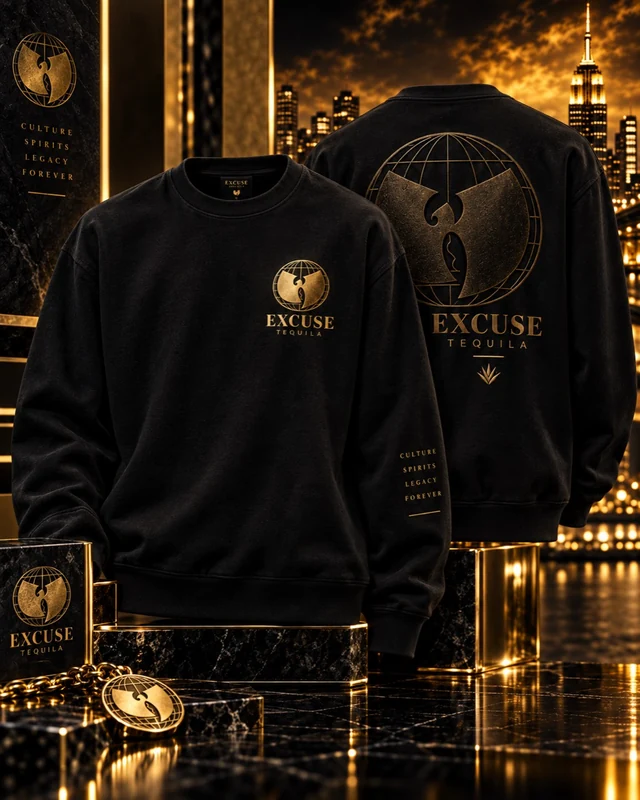
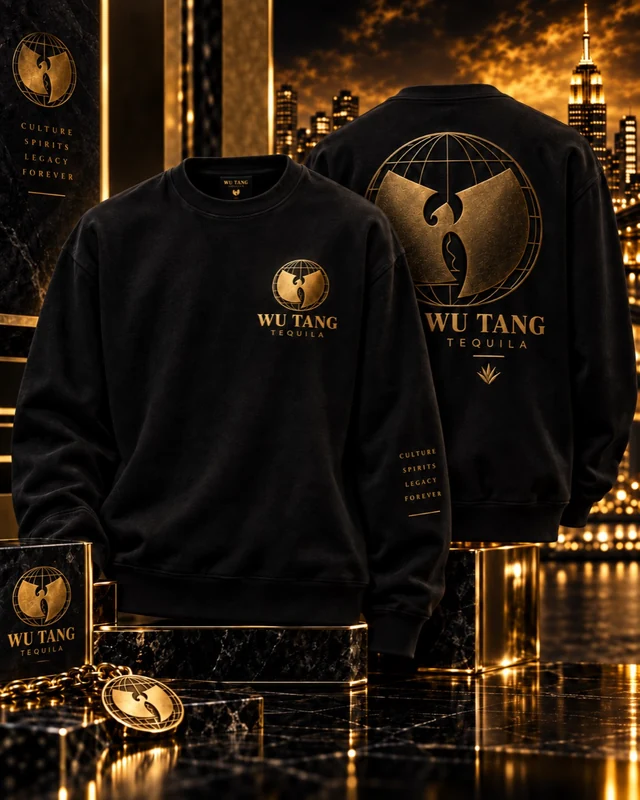
Correct Collector Goods to WU-TANG TEQUILA branding

diff --git a/collector-goods.html b/collector-goods.html
@@ -1,9 +1,9 @@
 <!doctype html>
-<html lang="en"><head><meta charset="UTF-8"><meta name="viewport" content="width=device-width, initial-scale=1"><meta name="theme-color" content="#080808"><title>Collector Goods | EXCUSE Tequila x Wu-Tang</title><meta name="description" content="Explore the upcoming EXCUSE Tequila x Wu-Tang collector goods collection: apparel, accessories and barware. Register for release updates."><meta property="og:title" content="Collector Goods | EXCUSE Tequila x Wu-Tang"><meta property="og:description" content="Culture. Spirits. Legacy. Discover collector goods coming soon."><meta property="og:type" content="website"><meta property="og:image" content="https://ernestyearby-svg.github.io/wutang-excuse/goods-campaign.webp"><link rel="stylesheet" href="styles.css?v=11"><script type="module" src="app.js?v=9"></script><link rel="stylesheet" href="collector-goods.css?v=1"><script type="module" src="collector-goods.js?v=1"></script></head>
+<html lang="en"><head><meta charset="UTF-8"><meta name="viewport" content="width=device-width, initial-scale=1"><meta name="theme-color" content="#080808"><title>Collector Goods | WU-TANG TEQUILA</title><meta name="description" content="Explore the upcoming WU-TANG TEQUILA collector goods collection: apparel, accessories and barware. Register for release updates."><meta property="og:title" content="Collector Goods | WU-TANG TEQUILA"><meta property="og:description" content="Culture. Spirits. Legacy. Discover collector goods coming soon."><meta property="og:type" content="website"><meta property="og:image" content="https://ernestyearby-svg.github.io/wutang-excuse/goods-campaign.webp?v=2"><link rel="stylesheet" href="styles.css?v=11"><script type="module" src="app.js?v=9"></script><link rel="stylesheet" href="collector-goods.css?v=2"><script type="module" src="collector-goods.js?v=1"></script></head>
 <body>
-<dialog id="age-gate" aria-labelledby="age-title"><div class="gate-inner"><span class="wordmark">EXCUSE<small>TEQUILA</small></span><p class="eyebrow">CULTURE. CRAFT. LEGACY.</p><h2 id="age-title">WELCOME<br>TO EXCUSE</h2><p>Please confirm that you are 21 years of age or older.</p><div class="gate-actions"><button class="button gold" id="enter">I AM 21+</button><button class="button" id="exit">EXIT</button></div><p class="fine">PLEASE DRINK RESPONSIBLY. 21+</p></div></dialog>
-<div id="site"><a class="skip" href="#main">Skip to content</a><header id="header"><a class="wordmark" href="index.html#home" aria-label="EXCUSE Tequila home">EXCUSE<small>TEQUILA</small></a><nav aria-label="Main navigation"><a href="index.html#editions">THE EDITIONS</a><button data-reserve>PRE-ORDER</button><a href="collector-goods.html" aria-current="page">COLLECTOR GOODS</a><a href="#signup">JOIN THE LIST</a></nav><button id="menu-toggle" aria-label="Open menu" aria-expanded="false" aria-controls="mobile-menu"><span></span><span></span></button></header>
-<main id="main" class="goods-page"><section class="goods-hero"><div class="goods-hero-top"><div><p class="eyebrow">EXCUSE TEQUILA x WU-TANG</p><h1>COLLECTOR<br><em>GOODS.</em></h1></div><div class="goods-hero-intro"><p class="goods-manifesto">CULTURE. <br>SPIRITS. <br>LEGACY.</p><p>A limited collection inspired by the EXCUSE Tequila x Wu-Tang collaboration.</p><p class="eyebrow">COMING SOON</p><div class="goods-actions"><button class="button gold" data-interest="all">JOIN THE MERCH LIST</button><a class="button" href="#collection">EXPLORE THE COLLECTION ↓</a></div></div></div><div class="goods-campaign"><img src="goods-campaign.webp" srcset="goods-campaign-640.webp 640w, goods-campaign.webp 1280w" sizes="100vw" width="1280" height="720" fetchpriority="high" alt="EXCUSE Tequila x Wu-Tang collector goods campaign with apparel, accessories and barware"></div><div class="goods-caption"><span>APPAREL / ACCESSORIES / BARWARE</span><span>EXCUSE x WU-TANG</span></div></section><section class="goods-intro section" id="collection"><p class="eyebrow">THE COLLECTION</p><h2>BUILT BEYOND<br><em>THE BOTTLE.</em></h2><p>A curated collection of apparel, accessories and barware extending the EXCUSE Tequila x Wu-Tang world beyond the spirit itself.</p></section><section class="goods-grid" aria-label="Apparel collection"><article class="goods-card"><img src="goods-tee.webp" srcset="goods-tee-640.webp 640w, goods-tee.webp 1066w" sizes="(max-width:700px) 100vw, (max-width:1000px) 46vw, 30vw" width="1066" height="1280" loading="lazy" alt="HEAVYWEIGHT TEE — approved black and gold EXCUSE Tequila x Wu-Tang presentation"><div class="goods-card-copy"><p class="eyebrow">01 / APPAREL</p><h3>HEAVYWEIGHT TEE</h3><div class="goods-card-bottom"><span>COMING SOON</span><button data-interest="tee" aria-label="Notify me about HEAVYWEIGHT TEE">NOTIFY ME <span aria-hidden="true">↗</span></button></div></div></article><article class="goods-card"><img src="goods-hoodie.webp" srcset="goods-hoodie-640.webp 640w, goods-hoodie.webp 1024w" sizes="(max-width:700px) 100vw, (max-width:1000px) 46vw, 30vw" width="1024" height="1280" loading="lazy" alt="COLLECTOR HOODIE — approved black and gold EXCUSE Tequila x Wu-Tang presentation"><div class="goods-card-copy"><p class="eyebrow">02 / APPAREL</p><h3>COLLECTOR HOODIE</h3><div class="goods-card-bottom"><span>COMING SOON</span><button data-interest="hoodie" aria-label="Notify me about COLLECTOR HOODIE">NOTIFY ME <span aria-hidden="true">↗</span></button></div></div></article><article class="goods-card"><img src="goods-jacket.webp" srcset="goods-jacket-640.webp 640w, goods-jacket.webp 1024w" sizes="(max-width:700px) 100vw, (max-width:1000px) 46vw, 30vw" width="1024" height="1280" loading="lazy" alt="VARSITY JACKET — approved black and gold EXCUSE Tequila x Wu-Tang presentation"><div class="goods-card-copy"><p class="eyebrow">03 / COLLECTOR APPAREL</p><h3>VARSITY JACKET</h3><div class="goods-card-bottom"><span>COMING SOON</span><button data-interest="jacket" aria-label="Notify me about VARSITY JACKET">NOTIFY ME <span aria-hidden="true">↗</span></button></div></div></article></section><section class="goods-feature "><div class="goods-feature-image"><img src="goods-jacket.webp" srcset="goods-jacket-640.webp 640w, goods-jacket.webp 1024w" sizes="(max-width:700px) 100vw, (max-width:1000px) 46vw, 30vw" width="1024" height="1280" loading="lazy" alt="VARSITY JACKET — approved black and gold EXCUSE Tequila x Wu-Tang presentation"></div><div class="goods-feature-copy"><p class="eyebrow">IN FOCUS / VARSITY JACKET</p><h2>THE STATEMENT<br><em>PIECE.</em></h2><p>The varsity jacket. A collector expression in black and gold.</p><p class="eyebrow">COMING SOON</p><button class="button" data-interest="jacket">REGISTER INTEREST ↗</button></div></section><section class="goods-grid" aria-label="Apparel and headwear"><article class="goods-card"><img src="goods-crewneck.webp" srcset="goods-crewneck-640.webp 640w, goods-crewneck.webp 1024w" sizes="(max-width:700px) 100vw, (max-width:1000px) 46vw, 30vw" width="1024" height="1280" loading="lazy" alt="PREMIUM CREWNECK — approved black and gold EXCUSE Tequila x Wu-Tang presentation"><div class="goods-card-copy"><p class="eyebrow">04 / APPAREL</p><h3>PREMIUM CREWNECK</h3><div class="goods-card-bottom"><span>COMING SOON</span><button data-interest="crewneck" aria-label="Notify me about PREMIUM CREWNECK">NOTIFY ME <span aria-hidden="true">↗</span></button></div></div></article><article class="goods-card"><img src="goods-cap.webp" srcset="goods-cap-640.webp 640w, goods-cap.webp 1024w" sizes="(max-width:700px) 100vw, (max-width:1000px) 46vw, 30vw" width="1024" height="1280" loading="lazy" alt="STRUCTURED CAP — approved black and gold EXCUSE Tequila x Wu-Tang presentation"><div class="goods-card-copy"><p class="eyebrow">05 / HEADWEAR</p><h3>STRUCTURED CAP</h3><div class="goods-card-bottom"><span>COMING SOON</span><button data-interest="cap" aria-label="Notify me about STRUCTURED CAP">NOTIFY ME <span aria-hidden="true">↗</span></button></div></div></article><article class="goods-card"><img src="goods-beanie.webp" srcset="goods-beanie-640.webp 640w, goods-beanie.webp 1024w" sizes="(max-width:700px) 100vw, (max-width:1000px) 46vw, 30vw" width="1024" height="1280" loading="lazy" alt="COLLECTOR BEANIE — approved black and gold EXCUSE Tequila x Wu-Tang presentation"><div class="goods-card-copy"><p class="eyebrow">06 / HEADWEAR</p><h3>COLLECTOR BEANIE</h3><div class="goods-card-bottom"><span>COMING SOON</span><button data-interest="beanie" aria-label="Notify me about COLLECTOR BEANIE">NOTIFY ME <span aria-hidden="true">↗</span></button></div></div></article></section><section class="goods-feature reverse"><div class="goods-feature-image"><img src="goods-box.webp" srcset="goods-box-640.webp 640w, goods-box.webp 1024w" sizes="(max-width:700px) 100vw, (max-width:1000px) 46vw, 30vw" width="1024" height="1280" loading="lazy" alt="COLLECTOR BOX — approved black and gold EXCUSE Tequila x Wu-Tang presentation"></div><div class="goods-feature-copy"><p class="eyebrow">IN FOCUS / COLLECTOR BOX</p><h2>BUILT TO BE<br><em>COLLECTED.</em></h2><p>The collector box. A presentation made for the next chapter.</p><p class="eyebrow">COMING SOON</p><button class="button" data-interest="box">REGISTER INTEREST ↗</button></div></section><section class="goods-grid" aria-label="Accessories and lifestyle"><article class="goods-card"><img src="goods-duffel.webp" srcset="goods-duffel-640.webp 640w, goods-duffel.webp 1024w" sizes="(max-width:700px) 100vw, (max-width:1000px) 46vw, 30vw" width="1024" height="1280" loading="lazy" alt="COLLECTOR DUFFEL — approved black and gold EXCUSE Tequila x Wu-Tang presentation"><div class="goods-card-copy"><p class="eyebrow">07 / ACCESSORIES</p><h3>COLLECTOR DUFFEL</h3><div class="goods-card-bottom"><span>COMING SOON</span><button data-interest="duffel" aria-label="Notify me about COLLECTOR DUFFEL">NOTIFY ME <span aria-hidden="true">↗</span></button></div></div></article><article class="goods-card"><img src="goods-barware.webp" srcset="goods-barware-640.webp 640w, goods-barware.webp 1024w" sizes="(max-width:700px) 100vw, (max-width:1000px) 46vw, 30vw" width="1024" height="1280" loading="lazy" alt="BARWARE COLLECTION — approved black and gold EXCUSE Tequila x Wu-Tang presentation"><div class="goods-card-copy"><p class="eyebrow">08 / BAR & LIFESTYLE</p><h3>BARWARE COLLECTION</h3><div class="goods-card-bottom"><span>COMING SOON</span><button data-interest="barware" aria-label="Notify me about BARWARE COLLECTION">NOTIFY ME <span aria-hidden="true">↗</span></button></div></div></article><article class="goods-card"><img src="goods-box.webp" srcset="goods-box-640.webp 640w, goods-box.webp 1024w" sizes="(max-width:700px) 100vw, (max-width:1000px) 46vw, 30vw" width="1024" height="1280" loading="lazy" alt="COLLECTOR BOX — approved black and gold EXCUSE Tequila x Wu-Tang presentation"><div class="goods-card-copy"><p class="eyebrow">09 / LIMITED COLLECTION</p><h3>COLLECTOR BOX</h3><div class="goods-card-bottom"><span>COMING SOON</span><button data-interest="box" aria-label="Notify me about COLLECTOR BOX">NOTIFY ME <span aria-hidden="true">↗</span></button></div></div></article></section><section class="goods-feature "><div class="goods-feature-image"><img src="goods-barware.webp" srcset="goods-barware-640.webp 640w, goods-barware.webp 1024w" sizes="(max-width:700px) 100vw, (max-width:1000px) 46vw, 30vw" width="1024" height="1280" loading="lazy" alt="BARWARE COLLECTION — approved black and gold EXCUSE Tequila x Wu-Tang presentation"></div><div class="goods-feature-copy"><p class="eyebrow">IN FOCUS / BARWARE COLLECTION</p><h2>THE EXPERIENCE<br>CONTINUES<br><em>AFTER THE POUR.</em></h2><p>The barware collection. Culture in every detail.</p><p class="eyebrow">COMING SOON</p><button class="button" data-interest="barware">REGISTER INTEREST ↗</button></div></section><section class="goods-signup section" id="signup"><p class="eyebrow">RELEASE INFORMATION / EARLY ACCESS</p><h2>YOUR NEXT<br><em>COLLECTOR MOMENT.</em></h2><p>Register for release information and availability updates.</p><button class="button gold" data-interest="all">JOIN THE MERCH LIST ↗</button></section><form id="signup-form" hidden><input name="email" type="email"></form><div id="signup-success" hidden></div></main><footer id="contact"><div class="footer-top"><a class="wordmark" href="index.html#home">EXCUSE<small>TEQUILA</small></a><nav aria-label="Footer navigation"><a href="index.html#contact">CONTACT</a><a href="index.html#editions">THE EDITIONS</a><button data-reserve>PRE-ORDER</button><a href="collector-goods.html" aria-current="page">COLLECTOR GOODS</a><a href="#signup">JOIN THE LIST</a></nav></div><div class="footer-bottom"><span>PLEASE DRINK RESPONSIBLY. 21+</span><span>Designed &amp; Developed by Dynasty Works Studio</span></div></footer></div>
-<dialog id="mobile-menu" aria-label="Navigation"><button class="close" id="menu-close" aria-label="Close menu">CLOSE ×</button><p class="eyebrow">EXCUSE TEQUILA x WU-TANG</p><nav><a href="index.html#editions">The editions</a><button data-reserve>Pre-order</button><a href="collector-goods.html" aria-current="page">Collector goods</a><a href="#signup">Join the list</a></nav><p class="fine">REPOSADO. ROOTED IN CULTURE.</p></dialog>
-<dialog id="reservation" aria-labelledby="reserve-title"><button class="close" id="reserve-close" aria-label="Close reservation">CLOSE ×</button><div class="reserve-intro"><p class="eyebrow">YOUR NEXT CHAPTER</p><h2 id="reserve-title">RESERVE<br><em>YOUR EDITION.</em></h2><p>Register your preorder interest.</p><p class="fine">Preview reservation only. No payment, purchase or allocation. Details are not transmitted or saved.</p></div><form id="reserve-form"><div class="fields"><label>First Name<input name="firstName" autocomplete="given-name" required maxlength="80"></label><label>Last Name<input name="lastName" autocomplete="family-name" required maxlength="80"></label><label>Email<input name="email" type="email" autocomplete="email" required maxlength="254"></label><label>Mobile Number<input name="phone" type="tel" autocomplete="tel" required pattern="[+0-9\(\) .\-]{7,25}" maxlength="25" title="Enter a phone number with 7–25 characters."></label><label>State<select name="state" autocomplete="address-level1" required><option value="">Select state</option></select></label><label>Zip Code<input name="zip" autocomplete="postal-code" inputmode="numeric" pattern="[0-9]{5}(-[0-9]{4})?" maxlength="10" title="Enter a five-digit ZIP code or ZIP+4." required></label><label>Edition<select name="edition" required><option value="wu">WU Edition</option><option value="brand">Brand Edition</option></select></label><label>Quantity<select name="quantity" required><option>1</option><option>2</option><option>3</option><option>4+</option></select></label></div><label class="check"><input type="checkbox" name="age" required><span>I confirm that I am 21 years of age or older.</span></label><label class="check"><input type="checkbox" name="consent" required><span>I agree to receive updates regarding EXCUSE Tequila availability and release information.</span></label><button class="button gold submit" type="submit">SUBMIT PRE-ORDER INTEREST ↗</button></form><div id="reserve-success" class="success" role="status" tabindex="-1" hidden><p class="eyebrow">PREVIEW CONFIRMATION</p><h3>YOU’RE ON THE LIST.</h3><p>We’ll contact you with release, availability and preorder information.</p><p class="fine">This is a demonstration of the confirmation experience. No details were submitted, and no reservation or follow-up was created.</p><button class="button" id="reserve-done">BACK TO THE PAGE</button></div></dialog>
-<dialog id="goods-interest" aria-labelledby="goods-interest-title"><button class="close" id="goods-close" aria-label="Close interest form">CLOSE ×</button><div id="goods-form-content"><p class="eyebrow">COLLECTOR GOODS / COMING SOON</p><h2 id="goods-interest-title">GET FIRST<br><em>ACCESS.</em></h2><p>Register for release information, availability and early access to EXCUSE Tequila x Wu-Tang collector goods.</p><form id="goods-form"><div class="fields"><label>First Name<input name="firstName" autocomplete="given-name" required maxlength="80"></label><label>Last Name<input name="lastName" autocomplete="family-name" required maxlength="80"></label><label>Email<input name="email" type="email" autocomplete="email" required maxlength="254"></label><label>Mobile Number<input name="phone" type="tel" autocomplete="tel" required minlength="7" title="Enter a phone number with 7–25 characters." maxlength="25"></label></div><fieldset><legend>Interested In <span>(select any)</span></legend><div class="interest-options"><label class="check"><input type="checkbox" name="interests" value="tee"><span>HEAVYWEIGHT TEE</span></label><label class="check"><input type="checkbox" name="interests" value="hoodie"><span>COLLECTOR HOODIE</span></label><label class="check"><input type="checkbox" name="interests" value="jacket"><span>VARSITY JACKET</span></label><label class="check"><input type="checkbox" name="interests" value="crewneck"><span>PREMIUM CREWNECK</span></label><label class="check"><input type="checkbox" name="interests" value="cap"><span>STRUCTURED CAP</span></label><label class="check"><input type="checkbox" name="interests" value="beanie"><span>COLLECTOR BEANIE</span></label><label class="check"><input type="checkbox" name="interests" value="duffel"><span>COLLECTOR DUFFEL</span></label><label class="check"><input type="checkbox" name="interests" value="barware"><span>BARWARE COLLECTION</span></label><label class="check"><input type="checkbox" name="interests" value="box"><span>COLLECTOR BOX</span></label><label class="check"><input type="checkbox" name="interests" value="all"><span>ALL RELEASES</span></label></div></fieldset><p id="goods-error" role="alert" hidden>Please select at least one item or All Releases.</p><p class="fine">Preview form. Your details are not saved or transmitted.</p><button class="button gold submit" type="submit">JOIN THE MERCH LIST ↗</button></form></div><div id="goods-success" class="success" tabindex="-1" role="status" hidden><p class="eyebrow">PREVIEW CONFIRMATION</p><h2>YOU’RE ON<br><em>THE LIST.</em></h2><p>We’ll send release information and availability updates when the collection is ready.</p><p class="fine">This is a preview of the confirmation. No details were submitted and no follow-up has been scheduled.</p><button class="button" id="goods-done">BACK TO THE COLLECTION</button></div></dialog></body></html>
+<dialog id="age-gate" aria-labelledby="age-title"><div class="gate-inner"><span class="wordmark">WU-TANG<small>TEQUILA</small></span><p class="eyebrow">CULTURE. CRAFT. LEGACY.</p><h2 id="age-title">WELCOME<br>TO WU-TANG</h2><p>Please confirm that you are 21 years of age or older.</p><div class="gate-actions"><button class="button gold" id="enter">I AM 21+</button><button class="button" id="exit">EXIT</button></div><p class="fine">PLEASE DRINK RESPONSIBLY. 21+</p></div></dialog>
+<div id="site"><a class="skip" href="#main">Skip to content</a><header id="header"><a class="wordmark" href="index.html#home" aria-label="WU-TANG TEQUILA home">WU-TANG<small>TEQUILA</small></a><nav aria-label="Main navigation"><a href="index.html#editions">THE EDITIONS</a><button data-reserve>PRE-ORDER</button><a href="collector-goods.html" aria-current="page">COLLECTOR GOODS</a><a href="#signup">JOIN THE LIST</a></nav><button id="menu-toggle" aria-label="Open menu" aria-expanded="false" aria-controls="mobile-menu"><span></span><span></span></button></header>
+<main id="main" class="goods-page"><section class="goods-hero"><div class="goods-hero-top"><div><p class="eyebrow">WU-TANG TEQUILA</p><h1>COLLECTOR<br><em>GOODS.</em></h1></div><div class="goods-hero-intro"><p class="goods-manifesto">CULTURE. <br>SPIRITS. <br>LEGACY.</p><p>A limited collection inspired by the WU-TANG TEQUILA collection.</p><p class="eyebrow">COMING SOON</p><div class="goods-actions"><button class="button gold" data-interest="all">JOIN THE MERCH LIST</button><a class="button" href="#collection">EXPLORE THE COLLECTION ↓</a></div></div></div><div class="goods-campaign"><img src="goods-campaign.webp?v=2" srcset="goods-campaign-640.webp?v=2 640w, goods-campaign.webp?v=2 1280w" sizes="100vw" width="1280" height="720" fetchpriority="high" alt="WU-TANG TEQUILA collector goods campaign with apparel, accessories and barware"></div><div class="goods-caption"><span>APPAREL / ACCESSORIES / BARWARE</span><span>WU-TANG TEQUILA</span></div></section><section class="goods-intro section" id="collection"><p class="eyebrow">THE COLLECTION</p><h2>BUILT BEYOND<br><em>THE BOTTLE.</em></h2><p>A curated collection of apparel, accessories and barware extending the WU-TANG TEQUILA world beyond the spirit itself.</p></section><section class="goods-grid" aria-label="Apparel collection"><article class="goods-card"><img src="goods-tee.webp?v=2" srcset="goods-tee-640.webp?v=2 640w, goods-tee.webp?v=2 1024w" sizes="(max-width:700px) 100vw, (max-width:1000px) 46vw, 30vw" width="1024" height="1280" loading="lazy" alt="HEAVYWEIGHT TEE — approved black and gold WU-TANG TEQUILA presentation"><div class="goods-card-copy"><p class="eyebrow">01 / APPAREL</p><h3>HEAVYWEIGHT TEE</h3><div class="goods-card-bottom"><span>COMING SOON</span><button data-interest="tee" aria-label="Notify me about HEAVYWEIGHT TEE">NOTIFY ME <span aria-hidden="true">↗</span></button></div></div></article><article class="goods-card"><img src="goods-hoodie.webp?v=2" srcset="goods-hoodie-640.webp?v=2 640w, goods-hoodie.webp?v=2 1024w" sizes="(max-width:700px) 100vw, (max-width:1000px) 46vw, 30vw" width="1024" height="1280" loading="lazy" alt="COLLECTOR HOODIE — approved black and gold WU-TANG TEQUILA presentation"><div class="goods-card-copy"><p class="eyebrow">02 / APPAREL</p><h3>COLLECTOR HOODIE</h3><div class="goods-card-bottom"><span>COMING SOON</span><button data-interest="hoodie" aria-label="Notify me about COLLECTOR HOODIE">NOTIFY ME <span aria-hidden="true">↗</span></button></div></div></article><article class="goods-card"><img src="goods-jacket.webp?v=2" srcset="goods-jacket-640.webp?v=2 640w, goods-jacket.webp?v=2 1024w" sizes="(max-width:700px) 100vw, (max-width:1000px) 46vw, 30vw" width="1024" height="1280" loading="lazy" alt="VARSITY JACKET — approved black and gold WU-TANG TEQUILA presentation"><div class="goods-card-copy"><p class="eyebrow">03 / COLLECTOR APPAREL</p><h3>VARSITY JACKET</h3><div class="goods-card-bottom"><span>COMING SOON</span><button data-interest="jacket" aria-label="Notify me about VARSITY JACKET">NOTIFY ME <span aria-hidden="true">↗</span></button></div></div></article></section><section class="goods-feature "><div class="goods-feature-image"><img src="goods-jacket.webp?v=2" srcset="goods-jacket-640.webp?v=2 640w, goods-jacket.webp?v=2 1024w" sizes="(max-width:700px) 100vw, (max-width:1000px) 46vw, 30vw" width="1024" height="1280" loading="lazy" alt="VARSITY JACKET — approved black and gold WU-TANG TEQUILA presentation"></div><div class="goods-feature-copy"><p class="eyebrow">IN FOCUS / VARSITY JACKET</p><h2>THE STATEMENT<br><em>PIECE.</em></h2><p>The varsity jacket. A collector expression in black and gold.</p><p class="eyebrow">COMING SOON</p><button class="button" data-interest="jacket">REGISTER INTEREST ↗</button></div></section><section class="goods-grid" aria-label="Apparel and headwear"><article class="goods-card"><img src="goods-crewneck.webp?v=2" srcset="goods-crewneck-640.webp?v=2 640w, goods-crewneck.webp?v=2 1024w" sizes="(max-width:700px) 100vw, (max-width:1000px) 46vw, 30vw" width="1024" height="1280" loading="lazy" alt="PREMIUM CREWNECK — approved black and gold WU-TANG TEQUILA presentation"><div class="goods-card-copy"><p class="eyebrow">04 / APPAREL</p><h3>PREMIUM CREWNECK</h3><div class="goods-card-bottom"><span>COMING SOON</span><button data-interest="crewneck" aria-label="Notify me about PREMIUM CREWNECK">NOTIFY ME <span aria-hidden="true">↗</span></button></div></div></article><article class="goods-card"><img src="goods-cap.webp?v=2" srcset="goods-cap-640.webp?v=2 640w, goods-cap.webp?v=2 1024w" sizes="(max-width:700px) 100vw, (max-width:1000px) 46vw, 30vw" width="1024" height="1280" loading="lazy" alt="STRUCTURED CAP — approved black and gold WU-TANG TEQUILA presentation"><div class="goods-card-copy"><p class="eyebrow">05 / HEADWEAR</p><h3>STRUCTURED CAP</h3><div class="goods-card-bottom"><span>COMING SOON</span><button data-interest="cap" aria-label="Notify me about STRUCTURED CAP">NOTIFY ME <span aria-hidden="true">↗</span></button></div></div></article><article class="goods-card"><img src="goods-beanie.webp?v=2" srcset="goods-beanie-640.webp?v=2 640w, goods-beanie.webp?v=2 1024w" sizes="(max-width:700px) 100vw, (max-width:1000px) 46vw, 30vw" width="1024" height="1280" loading="lazy" alt="COLLECTOR BEANIE — approved black and gold WU-TANG TEQUILA presentation"><div class="goods-card-copy"><p class="eyebrow">06 / HEADWEAR</p><h3>COLLECTOR BEANIE</h3><div class="goods-card-bottom"><span>COMING SOON</span><button data-interest="beanie" aria-label="Notify me about COLLECTOR BEANIE">NOTIFY ME <span aria-hidden="true">↗</span></button></div></div></article></section><section class="goods-feature reverse"><div class="goods-feature-image"><img src="goods-box.webp?v=2" srcset="goods-box-640.webp?v=2 640w, goods-box.webp?v=2 1024w" sizes="(max-width:700px) 100vw, (max-width:1000px) 46vw, 30vw" width="1024" height="1280" loading="lazy" alt="COLLECTOR BOX — approved black and gold WU-TANG TEQUILA presentation"></div><div class="goods-feature-copy"><p class="eyebrow">IN FOCUS / COLLECTOR BOX</p><h2>BUILT TO BE<br><em>COLLECTED.</em></h2><p>The collector box. A presentation made for the next chapter.</p><p class="eyebrow">COMING SOON</p><button class="button" data-interest="box">REGISTER INTEREST ↗</button></div></section><section class="goods-grid" aria-label="Accessories and lifestyle"><article class="goods-card"><img src="goods-duffel.webp?v=2" srcset="goods-duffel-640.webp?v=2 640w, goods-duffel.webp?v=2 1024w" sizes="(max-width:700px) 100vw, (max-width:1000px) 46vw, 30vw" width="1024" height="1280" loading="lazy" alt="COLLECTOR DUFFEL — approved black and gold WU-TANG TEQUILA presentation"><div class="goods-card-copy"><p class="eyebrow">07 / ACCESSORIES</p><h3>COLLECTOR DUFFEL</h3><div class="goods-card-bottom"><span>COMING SOON</span><button data-interest="duffel" aria-label="Notify me about COLLECTOR DUFFEL">NOTIFY ME <span aria-hidden="true">↗</span></button></div></div></article><article class="goods-card"><img src="goods-barware.webp?v=2" srcset="goods-barware-640.webp?v=2 640w, goods-barware.webp?v=2 1024w" sizes="(max-width:700px) 100vw, (max-width:1000px) 46vw, 30vw" width="1024" height="1280" loading="lazy" alt="BARWARE COLLECTION — approved black and gold WU-TANG TEQUILA presentation"><div class="goods-card-copy"><p class="eyebrow">08 / BAR & LIFESTYLE</p><h3>BARWARE COLLECTION</h3><div class="goods-card-bottom"><span>COMING SOON</span><button data-interest="barware" aria-label="Notify me about BARWARE COLLECTION">NOTIFY ME <span aria-hidden="true">↗</span></button></div></div></article><article class="goods-card"><img src="goods-box.webp?v=2" srcset="goods-box-640.webp?v=2 640w, goods-box.webp?v=2 1024w" sizes="(max-width:700px) 100vw, (max-width:1000px) 46vw, 30vw" width="1024" height="1280" loading="lazy" alt="COLLECTOR BOX — approved black and gold WU-TANG TEQUILA presentation"><div class="goods-card-copy"><p class="eyebrow">09 / LIMITED COLLECTION</p><h3>COLLECTOR BOX</h3><div class="goods-card-bottom"><span>COMING SOON</span><button data-interest="box" aria-label="Notify me about COLLECTOR BOX">NOTIFY ME <span aria-hidden="true">↗</span></button></div></div></article></section><section class="goods-feature "><div class="goods-feature-image"><img src="goods-barware.webp?v=2" srcset="goods-barware-640.webp?v=2 640w, goods-barware.webp?v=2 1024w" sizes="(max-width:700px) 100vw, (max-width:1000px) 46vw, 30vw" width="1024" height="1280" loading="lazy" alt="BARWARE COLLECTION — approved black and gold WU-TANG TEQUILA presentation"></div><div class="goods-feature-copy"><p class="eyebrow">IN FOCUS / BARWARE COLLECTION</p><h2>THE EXPERIENCE<br>CONTINUES<br><em>AFTER THE POUR.</em></h2><p>The barware collection. Culture in every detail.</p><p class="eyebrow">COMING SOON</p><button class="button" data-interest="barware">REGISTER INTEREST ↗</button></div></section><section class="goods-signup section" id="signup"><p class="eyebrow">RELEASE INFORMATION / EARLY ACCESS</p><h2>YOUR NEXT<br><em>COLLECTOR MOMENT.</em></h2><p>Register for release information and availability updates.</p><button class="button gold" data-interest="all">JOIN THE MERCH LIST ↗</button></section><form id="signup-form" hidden><input name="email" type="email"></form><div id="signup-success" hidden></div></main><footer id="contact"><div class="footer-top"><a class="wordmark" href="index.html#home">WU-TANG<small>TEQUILA</small></a><nav aria-label="Footer navigation"><a href="index.html#contact">CONTACT</a><a href="index.html#editions">THE EDITIONS</a><button data-reserve>PRE-ORDER</button><a href="collector-goods.html" aria-current="page">COLLECTOR GOODS</a><a href="#signup">JOIN THE LIST</a></nav></div><div class="footer-bottom"><span>PLEASE DRINK RESPONSIBLY. 21+</span><span>Designed &amp; Developed by Dynasty Works Studio</span></div></footer></div>
+<dialog id="mobile-menu" aria-label="Navigation"><button class="close" id="menu-close" aria-label="Close menu">CLOSE ×</button><p class="eyebrow">WU-TANG TEQUILA</p><nav><a href="index.html#editions">The editions</a><button data-reserve>Pre-order</button><a href="collector-goods.html" aria-current="page">Collector goods</a><a href="#signup">Join the list</a></nav><p class="fine">REPOSADO. ROOTED IN CULTURE.</p></dialog>
+<dialog id="reservation" aria-labelledby="reserve-title"><button class="close" id="reserve-close" aria-label="Close reservation">CLOSE ×</button><div class="reserve-intro"><p class="eyebrow">YOUR NEXT CHAPTER</p><h2 id="reserve-title">RESERVE<br><em>YOUR EDITION.</em></h2><p>Register your preorder interest.</p><p class="fine">Preview reservation only. No payment, purchase or allocation. Details are not transmitted or saved.</p></div><form id="reserve-form"><div class="fields"><label>First Name<input name="firstName" autocomplete="given-name" required maxlength="80"></label><label>Last Name<input name="lastName" autocomplete="family-name" required maxlength="80"></label><label>Email<input name="email" type="email" autocomplete="email" required maxlength="254"></label><label>Mobile Number<input name="phone" type="tel" autocomplete="tel" required pattern="[+0-9\(\) .\-]{7,25}" maxlength="25" title="Enter a phone number with 7–25 characters."></label><label>State<select name="state" autocomplete="address-level1" required><option value="">Select state</option></select></label><label>Zip Code<input name="zip" autocomplete="postal-code" inputmode="numeric" pattern="[0-9]{5}(-[0-9]{4})?" maxlength="10" title="Enter a five-digit ZIP code or ZIP+4." required></label><label>Edition<select name="edition" required><option value="wu">WU Edition</option><option value="brand">Brand Edition</option></select></label><label>Quantity<select name="quantity" required><option>1</option><option>2</option><option>3</option><option>4+</option></select></label></div><label class="check"><input type="checkbox" name="age" required><span>I confirm that I am 21 years of age or older.</span></label><label class="check"><input type="checkbox" name="consent" required><span>I agree to receive updates regarding WU-TANG TEQUILA availability and release information.</span></label><button class="button gold submit" type="submit">SUBMIT PRE-ORDER INTEREST ↗</button></form><div id="reserve-success" class="success" role="status" tabindex="-1" hidden><p class="eyebrow">PREVIEW CONFIRMATION</p><h3>YOU’RE ON THE LIST.</h3><p>We’ll contact you with release, availability and preorder information.</p><p class="fine">This is a demonstration of the confirmation experience. No details were submitted, and no reservation or follow-up was created.</p><button class="button" id="reserve-done">BACK TO THE PAGE</button></div></dialog>
+<dialog id="goods-interest" aria-labelledby="goods-interest-title"><button class="close" id="goods-close" aria-label="Close interest form">CLOSE ×</button><div id="goods-form-content"><p class="eyebrow">COLLECTOR GOODS / COMING SOON</p><h2 id="goods-interest-title">GET FIRST<br><em>ACCESS.</em></h2><p>Register for release information, availability and early access to WU-TANG TEQUILA collector goods.</p><form id="goods-form"><div class="fields"><label>First Name<input name="firstName" autocomplete="given-name" required maxlength="80"></label><label>Last Name<input name="lastName" autocomplete="family-name" required maxlength="80"></label><label>Email<input name="email" type="email" autocomplete="email" required maxlength="254"></label><label>Mobile Number<input name="phone" type="tel" autocomplete="tel" required minlength="7" title="Enter a phone number with 7–25 characters." maxlength="25"></label></div><fieldset><legend>Interested In <span>(select any)</span></legend><div class="interest-options"><label class="check"><input type="checkbox" name="interests" value="tee"><span>HEAVYWEIGHT TEE</span></label><label class="check"><input type="checkbox" name="interests" value="hoodie"><span>COLLECTOR HOODIE</span></label><label class="check"><input type="checkbox" name="interests" value="jacket"><span>VARSITY JACKET</span></label><label class="check"><input type="checkbox" name="interests" value="crewneck"><span>PREMIUM CREWNECK</span></label><label class="check"><input type="checkbox" name="interests" value="cap"><span>STRUCTURED CAP</span></label><label class="check"><input type="checkbox" name="interests" value="beanie"><span>COLLECTOR BEANIE</span></label><label class="check"><input type="checkbox" name="interests" value="duffel"><span>COLLECTOR DUFFEL</span></label><label class="check"><input type="checkbox" name="interests" value="barware"><span>BARWARE COLLECTION</span></label><label class="check"><input type="checkbox" name="interests" value="box"><span>COLLECTOR BOX</span></label><label class="check"><input type="checkbox" name="interests" value="all"><span>ALL RELEASES</span></label></div></fieldset><p id="goods-error" role="alert" hidden>Please select at least one item or All Releases.</p><p class="fine">Preview form. Your details are not saved or transmitted.</p><button class="button gold submit" type="submit">JOIN THE MERCH LIST ↗</button></form></div><div id="goods-success" class="success" tabindex="-1" role="status" hidden><p class="eyebrow">PREVIEW CONFIRMATION</p><h2>YOU’RE ON<br><em>THE LIST.</em></h2><p>We’ll send release information and availability updates when the collection is ready.</p><p class="fine">This is a preview of the confirmation. No details were submitted and no follow-up has been scheduled.</p><button class="button" id="goods-done">BACK TO THE COLLECTION</button></div></dialog></body></html>

diff --git a/index.html b/index.html
@@ -10,7 +10,7 @@
 <section class="nyc-feature" id="next-chapter"><div class="nyc-feature-copy"><p class="eyebrow">02 / THE NEXT CHAPTER</p><h2>REPOSADO.<br><em>ROOTED IN CULTURE.</em></h2><p class="eyebrow">COMING SOON</p><p>A bold new EXCUSE Tequila expression created at the intersection of premium spirits, culture and legacy.</p><p class="micro">100% DE AGAVE AZUL</p><button class="button gold" data-reserve="brand">RESERVE YOUR BOTTLE ↗</button></div><picture><source media="(max-width:700px)" srcset="nyc-mobile.webp"><img src="nyc-hero.webp" width="1280" height="720" loading="lazy" alt="New Reposado bottle and box beneath the gold Wu globe above New York"></picture></section>
 <section class="craft" id="craft"><img src="agave.webp" width="1280" height="720" loading="lazy" alt="Agave fields in golden evening light"><div><p class="eyebrow">03 / THE CRAFT</p><h2>CRAFTED BY NATURE.<br><em>DRIVEN BY CULTURE.</em></h2><p>100% Agave Azul. A premium tequila expression created for the next chapter of EXCUSE.</p></div></section>
 <section class="culture section" id="legacy"><div class="culture-art"><img src="legacy.webp" width="1280" height="720" loading="lazy" alt="Gold-lit stone architecture overlooking the New York skyline"></div><div class="culture-copy"><p class="eyebrow">04 / THE LEGACY</p><h2>BUILT ON CULTURE.<br><em>DESIGNED FOR<br>WHAT’S NEXT.</em></h2><p>EXCUSE Tequila x Wu-Tang brings together premium spirits, collectible design, and cultural legacy in a collaboration created for a new generation.</p><a class="button" href="#signup">JOIN THE MOVEMENT ↗</a></div></section>
-<section class="goods-teaser section"><a href="collector-goods.html" aria-label="Explore collector goods"><img src="goods-campaign.webp" srcset="goods-campaign-640.webp 640w, goods-campaign.webp 1280w" sizes="(max-width:700px) 100vw, (max-width:1000px) 46vw, 30vw" width="1280" height="720" loading="lazy" alt="EXCUSE Tequila x Wu-Tang collector goods campaign with apparel, accessories and barware"></a><div><p class="eyebrow">BEYOND THE BOTTLE</p><h2>COLLECTOR GOODS<br><em>ARE COMING.</em></h2><p>Apparel. Accessories. Barware. Limited releases.</p><a class="button" href="collector-goods.html">EXPLORE COLLECTOR GOODS ↗</a></div></section><section class="signup section" id="signup"><div><p class="eyebrow">RELEASE ANNOUNCEMENTS / EARLY ACCESS</p><h2>BE FIRST INTO<br><em>THE NEXT CHAPTER.</em></h2></div><div><form id="signup-form"><label for="signup-email">EMAIL ADDRESS</label><div class="email-row"><input id="signup-email" name="email" type="email" autocomplete="email" placeholder="Your email address" required maxlength="254"><button class="button gold" type="submit">JOIN THE LIST ↗</button></div><p class="fine">Preview only. Your email is not transmitted or saved.</p></form><div id="signup-success" class="success" role="status" hidden><h3>YOU’RE ON THE LIST.</h3><p>We’ll contact you with release, availability and preorder information.</p><p class="fine">Preview complete. No email has been submitted.</p></div></div></section>
+<section class="goods-teaser section"><a href="collector-goods.html" aria-label="Explore collector goods"><img src="goods-campaign.webp?v=2" srcset="goods-campaign-640.webp?v=2 640w, goods-campaign.webp?v=2 1280w" sizes="(max-width:700px) 100vw, (max-width:1000px) 46vw, 30vw" width="1280" height="720" loading="lazy" alt="WU-TANG TEQUILA collector goods campaign with apparel, accessories and barware"></a><div><p class="eyebrow">WU-TANG TEQUILA / BEYOND THE BOTTLE</p><h2>COLLECTOR GOODS<br><em>ARE COMING.</em></h2><p>Apparel. Accessories. Barware. Limited releases.</p><a class="button" href="collector-goods.html">EXPLORE COLLECTOR GOODS ↗</a></div></section><section class="signup section" id="signup"><div><p class="eyebrow">RELEASE ANNOUNCEMENTS / EARLY ACCESS</p><h2>BE FIRST INTO<br><em>THE NEXT CHAPTER.</em></h2></div><div><form id="signup-form"><label for="signup-email">EMAIL ADDRESS</label><div class="email-row"><input id="signup-email" name="email" type="email" autocomplete="email" placeholder="Your email address" required maxlength="254"><button class="button gold" type="submit">JOIN THE LIST ↗</button></div><p class="fine">Preview only. Your email is not transmitted or saved.</p></form><div id="signup-success" class="success" role="status" hidden><h3>YOU’RE ON THE LIST.</h3><p>We’ll contact you with release, availability and preorder information.</p><p class="fine">Preview complete. No email has been submitted.</p></div></div></section>
 </main><footer id="contact"><div class="footer-top"><a class="wordmark" href="#home">EXCUSE<small>TEQUILA</small></a><nav aria-label="Footer navigation"><a href="#editions">THE EDITIONS</a><button data-reserve>PRE-ORDER</button><a href="collector-goods.html">COLLECTOR GOODS</a><a href="#signup">JOIN THE LIST</a></nav></div><div class="footer-bottom"><span>PLEASE DRINK RESPONSIBLY. 21+</span><span>Designed &amp; Developed by Dynasty Works Studio</span></div></footer></div>
 <dialog id="mobile-menu" aria-label="Navigation"><button class="close" id="menu-close" aria-label="Close menu">CLOSE ×</button><p class="eyebrow">EXCUSE TEQUILA x WU-TANG</p><nav><a href="#editions">The editions</a><button data-reserve>Pre-order</button><a href="collector-goods.html">Collector goods</a><a href="#signup">Join the list</a></nav><p class="fine">REPOSADO. ROOTED IN CULTURE.</p></dialog>
 <dialog id="reservation" aria-labelledby="reserve-title"><button class="close" id="reserve-close" aria-label="Close reservation">CLOSE ×</button><div class="reserve-intro"><p class="eyebrow">YOUR NEXT CHAPTER</p><h2 id="reserve-title">RESERVE<br><em>YOUR EDITION.</em></h2><p>Register your preorder interest.</p><p class="fine">Preview reservation only. No payment, purchase or allocation. Details are not transmitted or saved.</p></div><form id="reserve-form"><div class="fields"><label>First Name<input name="firstName" autocomplete="given-name" required maxlength="80"></label><label>Last Name<input name="lastName" autocomplete="family-name" required maxlength="80"></label><label>Email<input name="email" type="email" autocomplete="email" required maxlength="254"></label><label>Mobile Number<input name="phone" type="tel" autocomplete="tel" required pattern="[+0-9\(\) .\-]{7,25}" maxlength="25" title="Enter a phone number with 7–25 characters."></label><label>State<select name="state" autocomplete="address-level1" required><option value="">Select state</option></select></label><label>Zip Code<input name="zip" autocomplete="postal-code" inputmode="numeric" pattern="[0-9]{5}(-[0-9]{4})?" maxlength="10" title="Enter a five-digit ZIP code or ZIP+4." required></label><label>Edition<select name="edition" required><option value="wu">WU Edition</option><option value="brand">Brand Edition</option></select></label><label>Quantity<select name="quantity" required><option>1</option><option>2</option><option>3</option><option>4+</option></select></label></div><label class="check"><input type="checkbox" name="age" required><span>I confirm that I am 21 years of age or older.</span></label><label class="check"><input type="checkbox" name="consent" required><span>I agree to receive updates regarding EXCUSE Tequila availability and release information.</span></label><button class="button gold submit" type="submit">SUBMIT PRE-ORDER INTEREST ↗</button></form><div id="reserve-success" class="success" role="status" tabindex="-1" hidden><p class="eyebrow">PREVIEW CONFIRMATION</p><h3>YOU’RE ON THE LIST.</h3><p>We’ll contact you with release, availability and preorder information.</p><p class="fine">This is a demonstration of the confirmation experience. No details were submitted, and no reservation or follow-up was created.</p><button class="button" id="reserve-done">BACK TO THE PAGE</button></div></dialog>

diff --git a/merch.html b/merch.html
@@ -1,1 +1,1 @@
-<!doctype html><html lang="en"><meta charset="utf-8"><meta name="viewport" content="width=device-width, initial-scale=1"><meta http-equiv="refresh" content="0;url=collector-goods.html"><title>Collector Goods | EXCUSE Tequila x Wu-Tang</title><a href="collector-goods.html">Explore Collector Goods</a></html>
+<!doctype html><html lang="en"><meta charset="utf-8"><meta name="viewport" content="width=device-width, initial-scale=1"><meta http-equiv="refresh" content="0;url=collector-goods.html"><title>Collector Goods | WU-TANG TEQUILA</title><a href="collector-goods.html">Explore Collector Goods</a></html>
